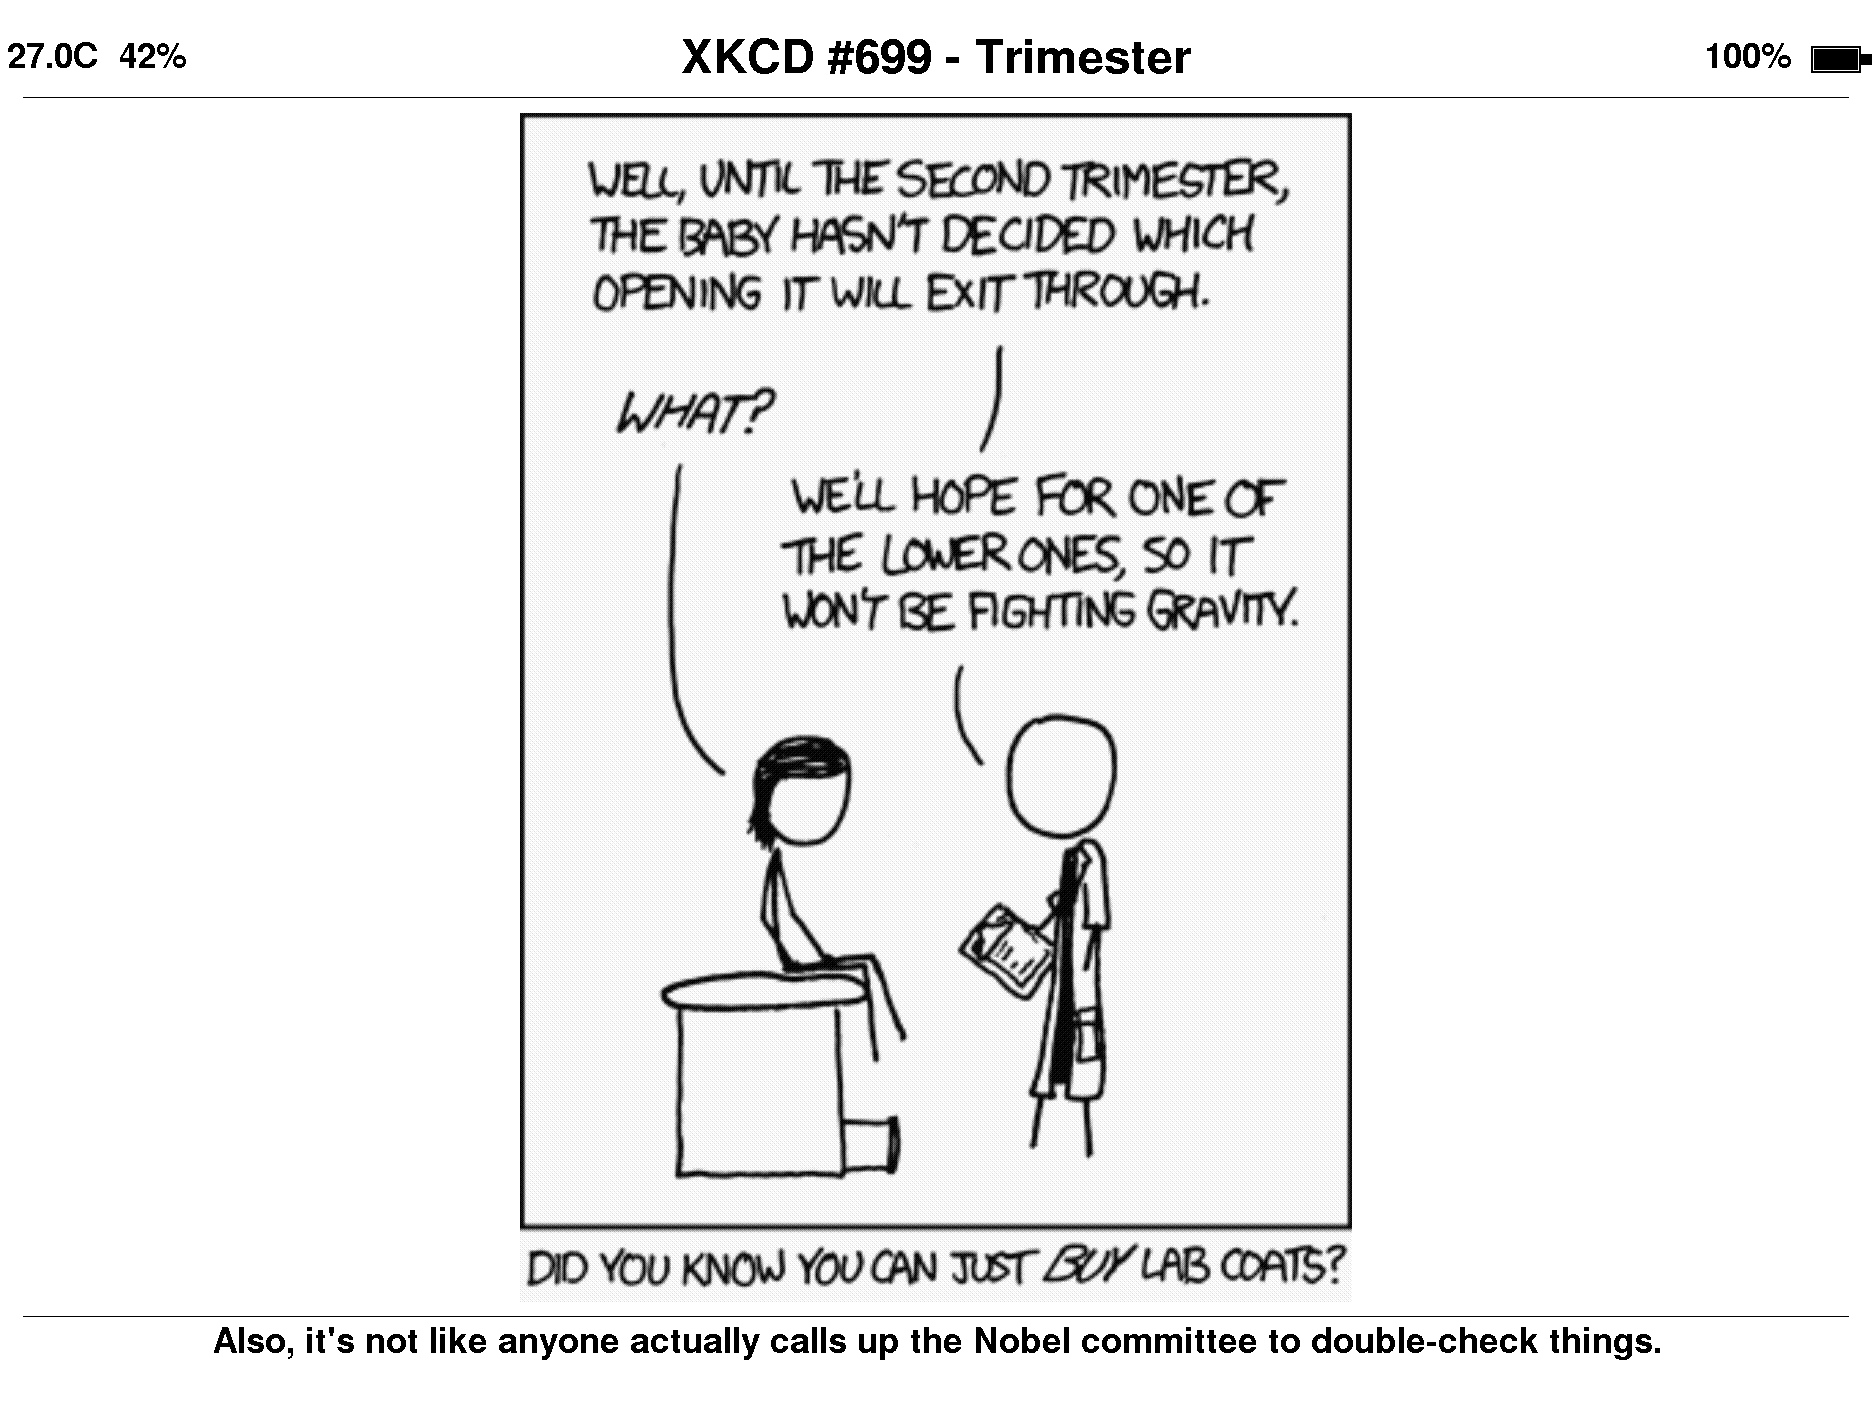
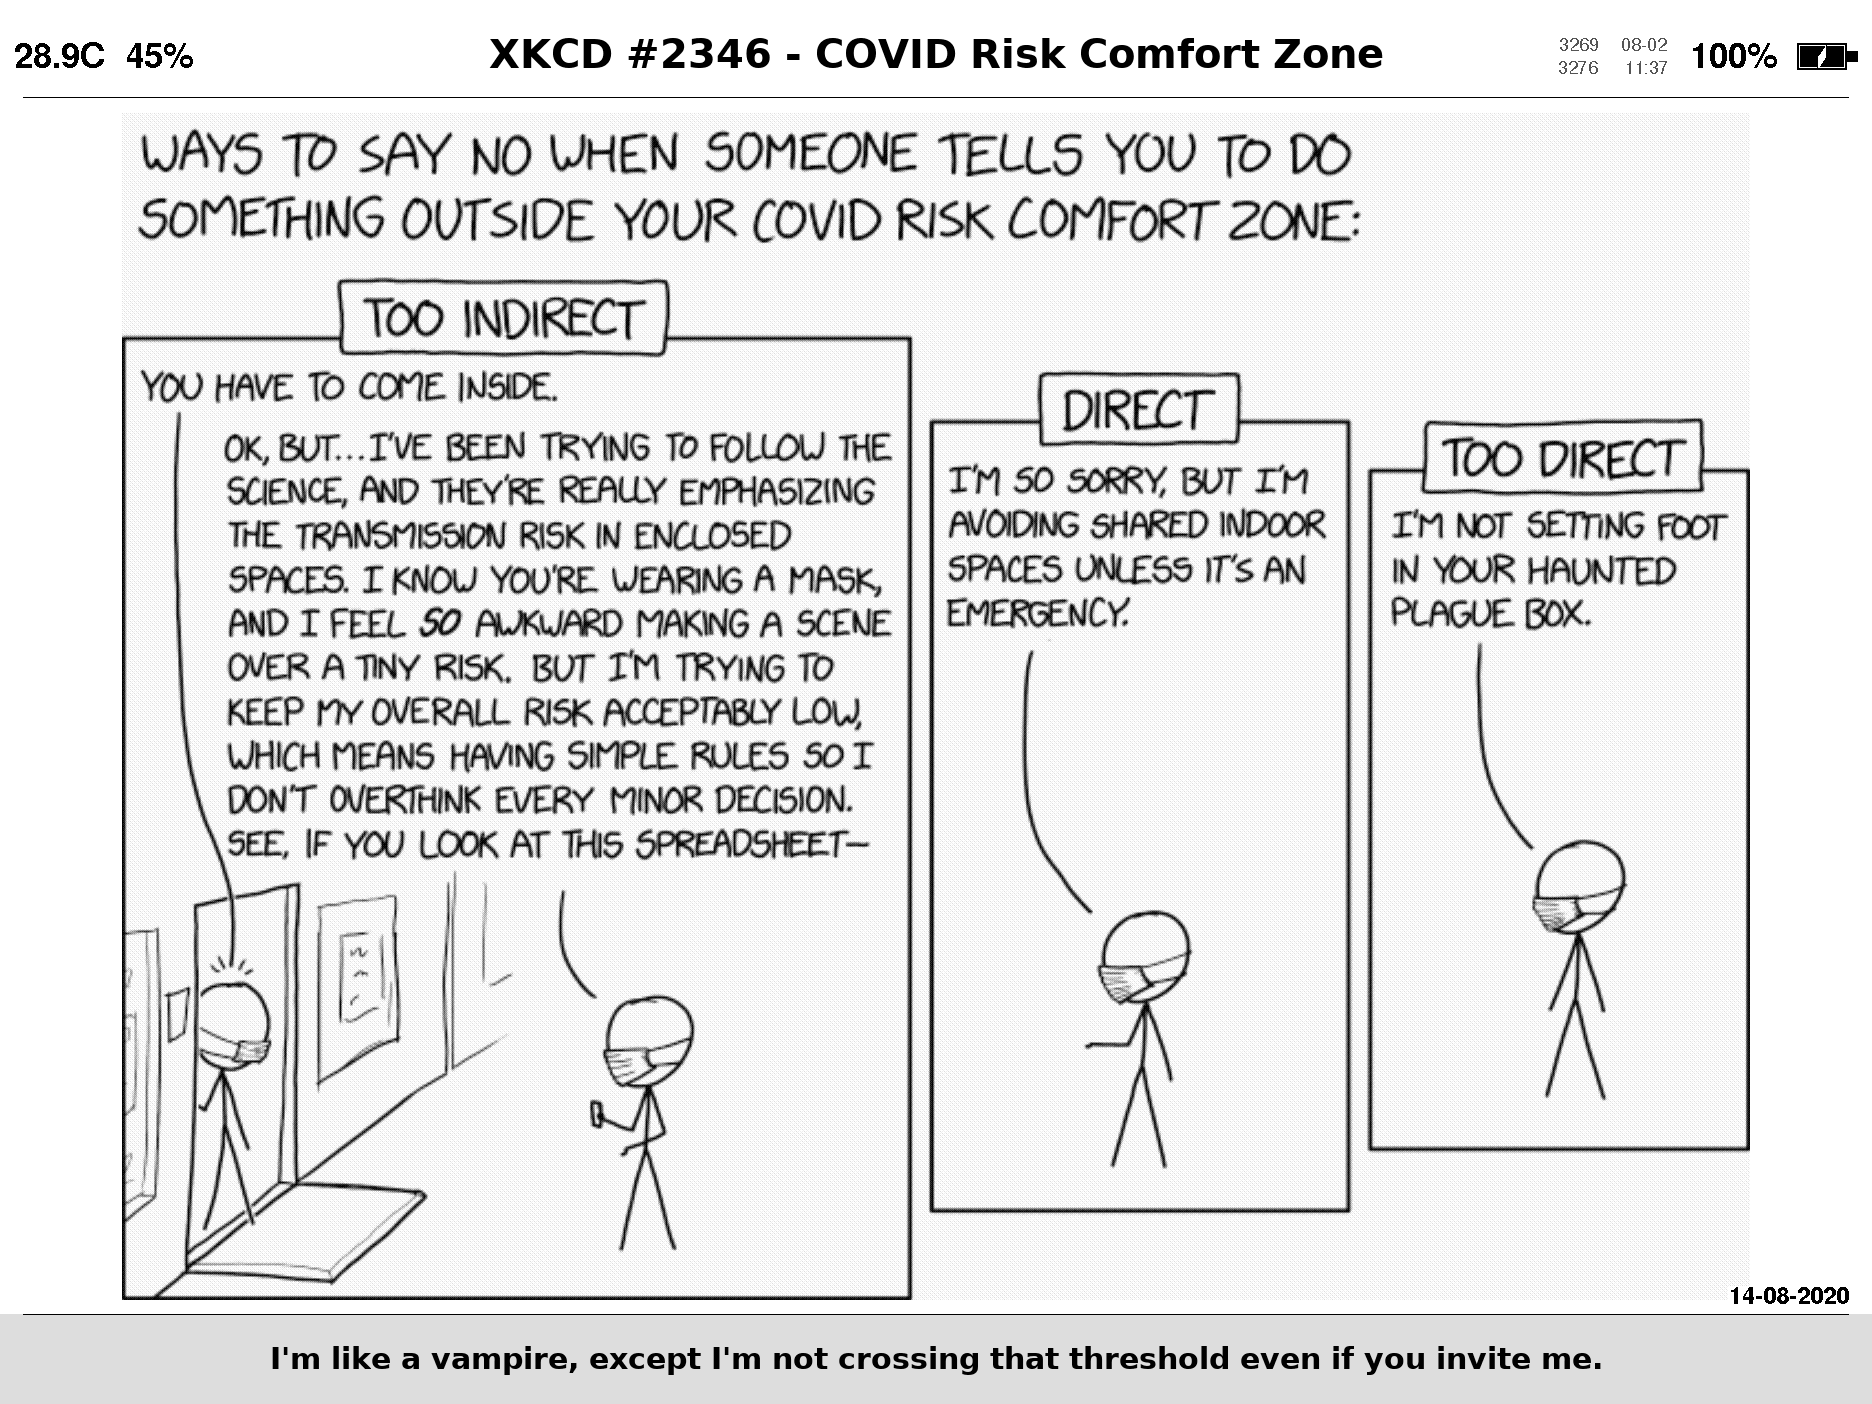
docs: update xkcd sample screenshot to #2346

diff --git a/xkcd-viewer/README.md b/xkcd-viewer/README.md
@@ -13,7 +13,7 @@ Only Wi-Fi access to XKCD is required.
 
 ## Example output
 
-![XKCD Viewer displaying XKCD 699, Trimester, on a reTerminal E1003](assets/e1003-xkcd-screenshot.png)
+![XKCD Viewer displaying XKCD 2346, COVID Risk Comfort Zone, on a reTerminal E1003](assets/e1003-xkcd-screenshot.png)
 
 Frame captured directly from a reTerminal E1003 using the built-in screenshot
 feature. Comic: [XKCD #699 — Trimester](https://xkcd.com/699/).

diff --git a/README.md b/README.md
@@ -32,7 +32,7 @@ details.
 
 ## XKCD Viewer example
 
-![XKCD Viewer displaying XKCD 699, Trimester, on a reTerminal E1003](xkcd-viewer/assets/e1003-xkcd-screenshot.png)
+![XKCD Viewer displaying XKCD 2346, COVID Risk Comfort Zone, on a reTerminal E1003](xkcd-viewer/assets/e1003-xkcd-screenshot.png)
 
 This frame was captured directly from a reTerminal E1003 running the
 [XKCD Viewer](xkcd-viewer/). Comic:
